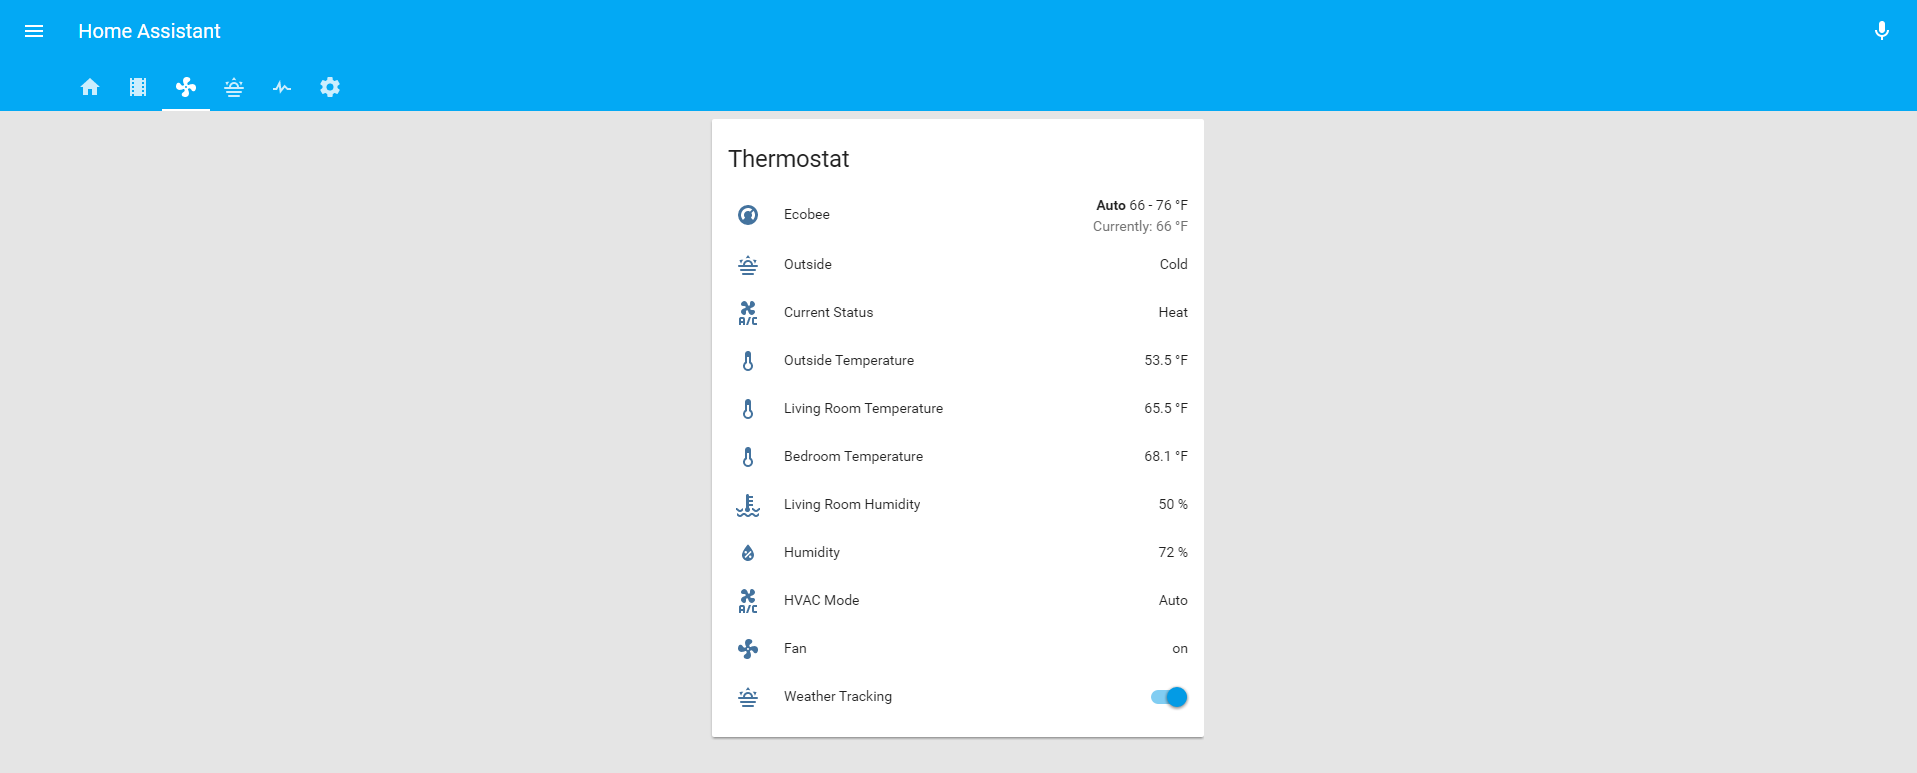
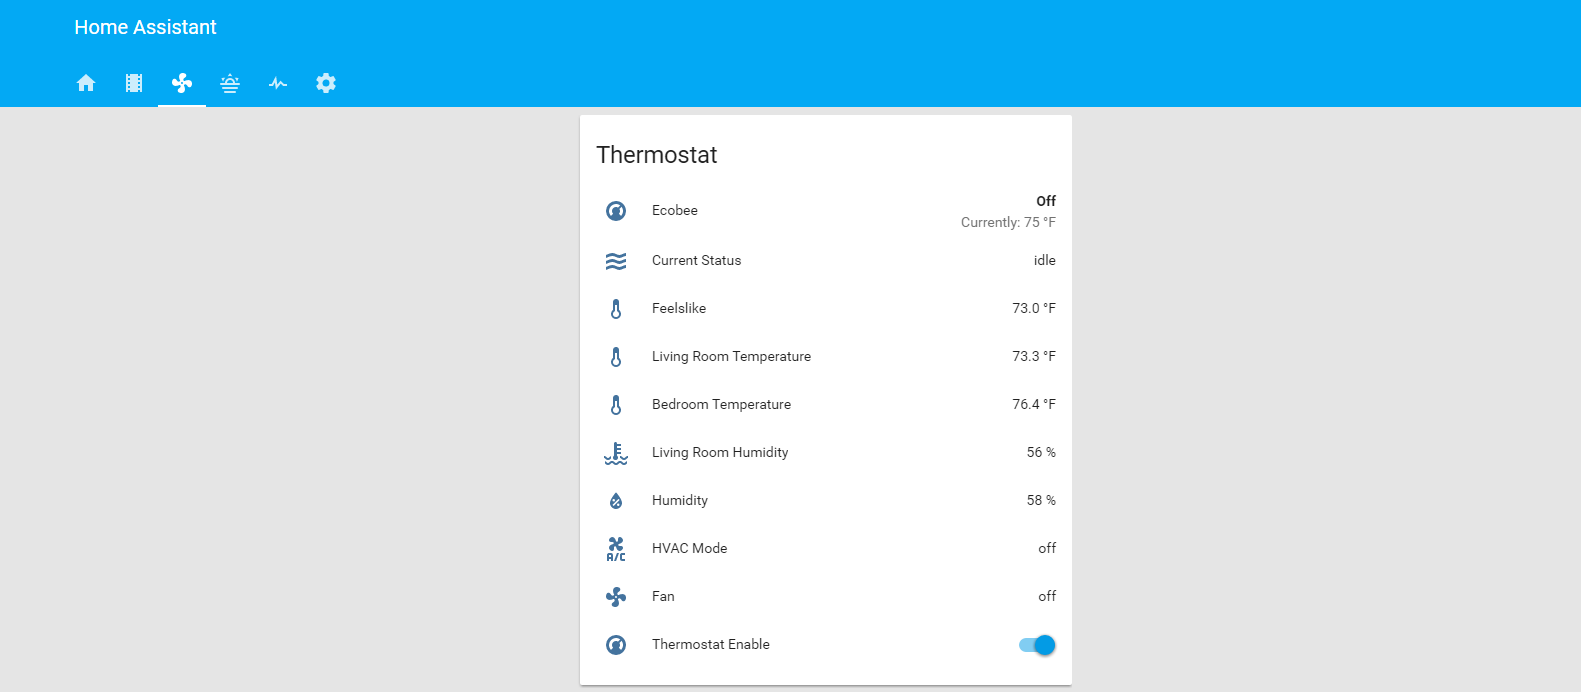
Added images and updated README

Changed region(s): [[0.0, 0.091, 1.0, 1.0], [0.0, 0.0303, 0.155, 0.0607], [0.9608, 0.0303, 0.9918, 0.0607]]

diff --git a/README.md b/README.md
@@ -20,7 +20,7 @@ Currently running on 3rd gen RaspberryPi (OS: Raspbian Jessie)
 
 ### Automations:
 - Light control based on device presence and sun status
-- Theromstat control based on outside temperature and device presence (away mode)
+- Theromstat control based on outside temperature and device presence
 - HA Reset notifications and memory leak notifications
 - Nightly data storage for daily average/max/min to be displayed as a graph in the front end (to get long-term history)
 
@@ -49,7 +49,7 @@ Currently running on 3rd gen RaspberryPi (OS: Raspbian Jessie)
   
 Current setup cost estimate: $1250
 
-(Images last updated 4/29/2017, may not reflect current configuration)
+(Images last updated July 8, 2017, may not reflect current configuration)
 ![](https://github.com/fronzbot/githass/blob/master/images/ha_home_page.png)
 ![](https://github.com/fronzbot/githass/blob/master/images/ha_media.png)
 ![](https://github.com/fronzbot/githass/blob/master/images/ha_media2.png)
@@ -57,4 +57,5 @@ Current setup cost estimate: $1250
 ![](https://github.com/fronzbot/githass/blob/master/images/ha_weather1.png)
 ![](https://github.com/fronzbot/githass/blob/master/images/ha_weather2.png)
 ![](https://github.com/fronzbot/githass/blob/master/images/ha_stats.png)
+![](https://github.com/fronzbot/githass/blob/master/images/ha_stats2.png)
 ![](https://github.com/fronzbot/githass/blob/master/images/ha_override.png)
